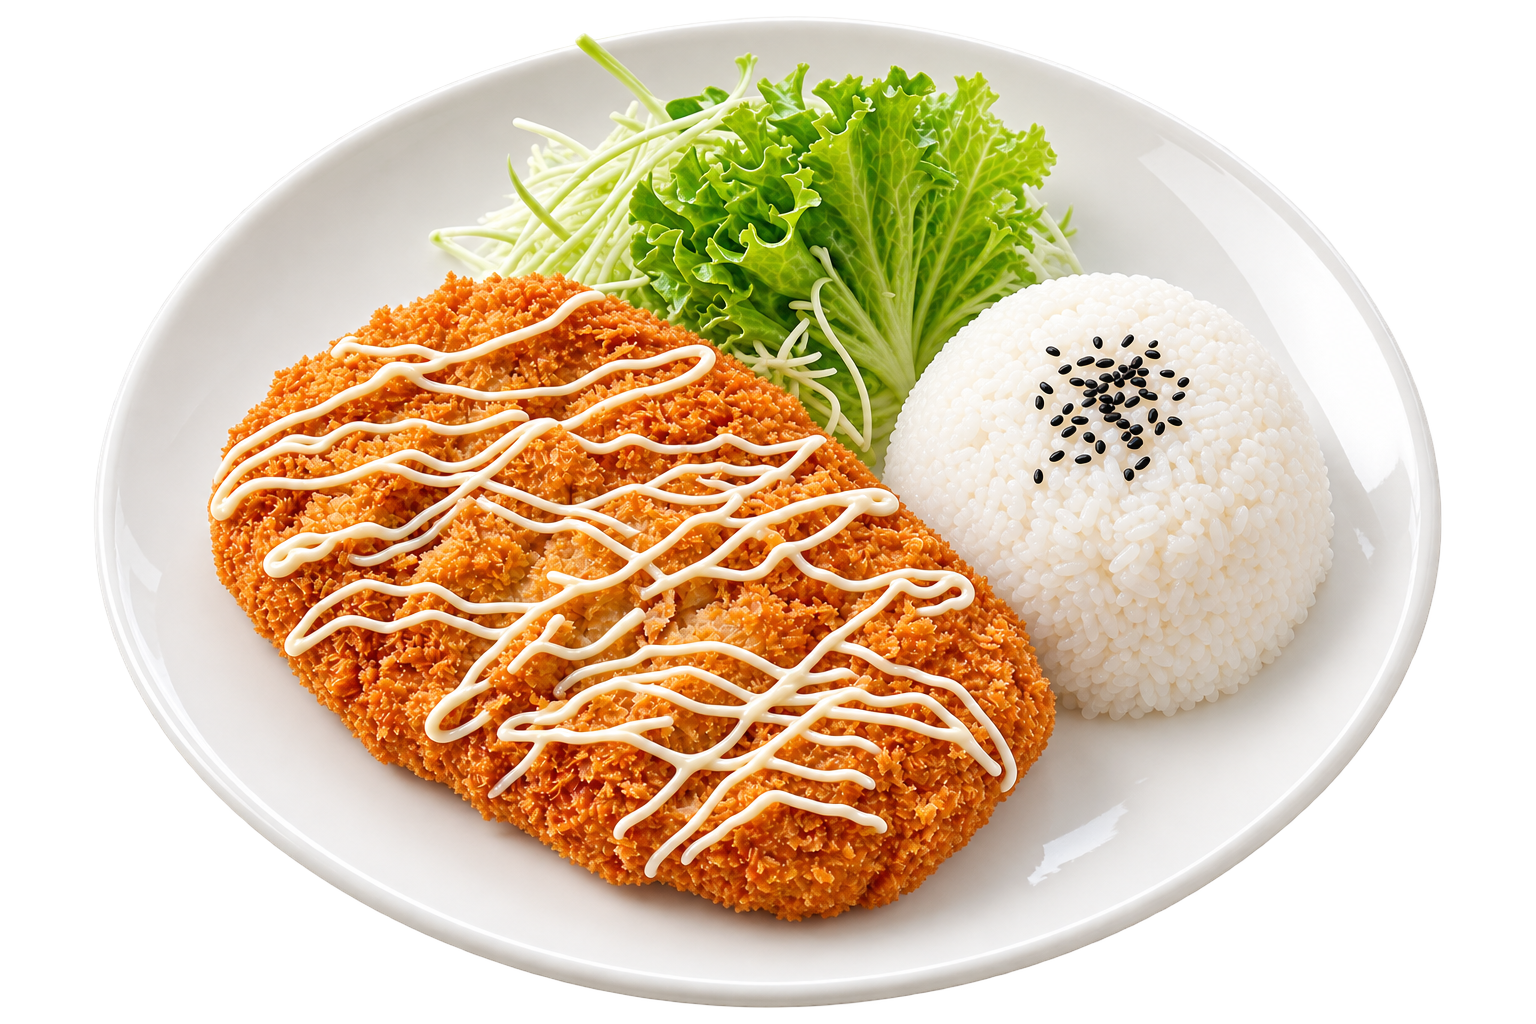
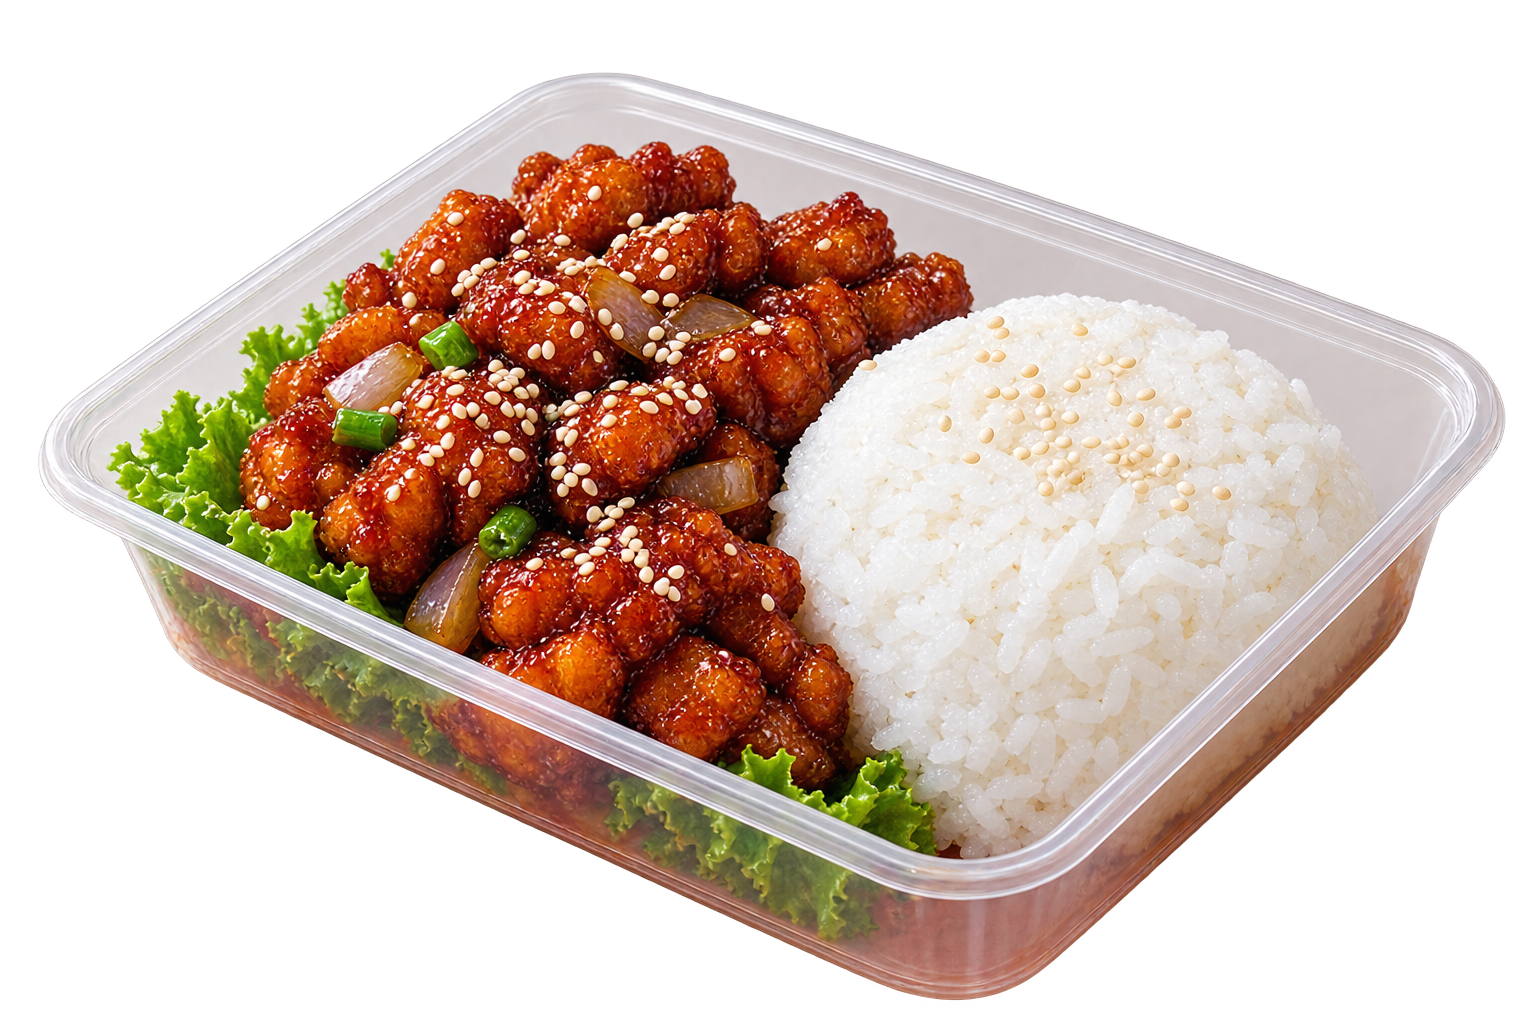
update menu ang desx

diff --git a/index.html b/index.html
@@ -532,7 +532,7 @@
 
 
             <div class="scroll-text">
-                SCROLL TO DISCOVER ↓
+                
             </div>
 
         </div>
@@ -598,7 +598,7 @@
                     </div>
 
                     <h2 class="product-title">
-                        CHEESY.
+                        RICH.
                     </h2>
 
                     <p class="product-description">
@@ -630,7 +630,7 @@
                 <div class="product-info">
 
                     <div class="product-number">
-                        03 / CHICKEN POPCORN
+                        03 / SPAGHETTI BOLOGNESE
                     </div>
 
                     <h2 class="product-title">
@@ -638,8 +638,8 @@
                     </h2>
 
                     <p class="product-description">
-                        Crispy chicken popcorn served
-                        with delicious black pepper sauce.
+                        Spaghetti dengan saus bolognese yang kaya rasa dan taburan keju.
+Simple comfort food, made seriously delicious
                     </p>
 
                 </div>
@@ -694,7 +694,50 @@
 
             </div>
 
+        <!-- PRODUCT 05 -->
+        <div class="product-card">
+            <div class="product-info">
+                <div class="product-number">05 / CHICKEN TERIYAKI</div>
 
+                <h2 class="product-title">SAVORY.</h2>
+
+                <p class="product-description">
+                    Ayam berbumbu teiyaki gurih dengan nasi pulen
+                    dan sayuran segar.
+                </p>
+            </div>
+
+            <div class="product-image-wrap">
+                <img
+                    src="food5.png"
+                    class="product-image"
+                    alt="Mamya Nasi Ayam"
+                >
+            </div>
+        </div>
+
+
+        <!-- PRODUCT 06 -->
+        <div class="product-card">
+            <div class="product-info">
+                <div class="product-number">06 / NASI GORENG</div>
+
+                <h2 class="product-title">DELICIOUS.</h2>
+
+                <p class="product-description">
+                    Nasi goreng dengan rasa gurih,
+                    lengkap dengan topping pilihan.
+                </p>
+            </div>
+
+            <div class="product-image-wrap">
+                <img
+                    src="food6.png"
+                    class="product-image"
+                    alt="Mamya Nasi Goreng"
+                >
+            </div>
+        </div>
         </div>
 
     </section>
